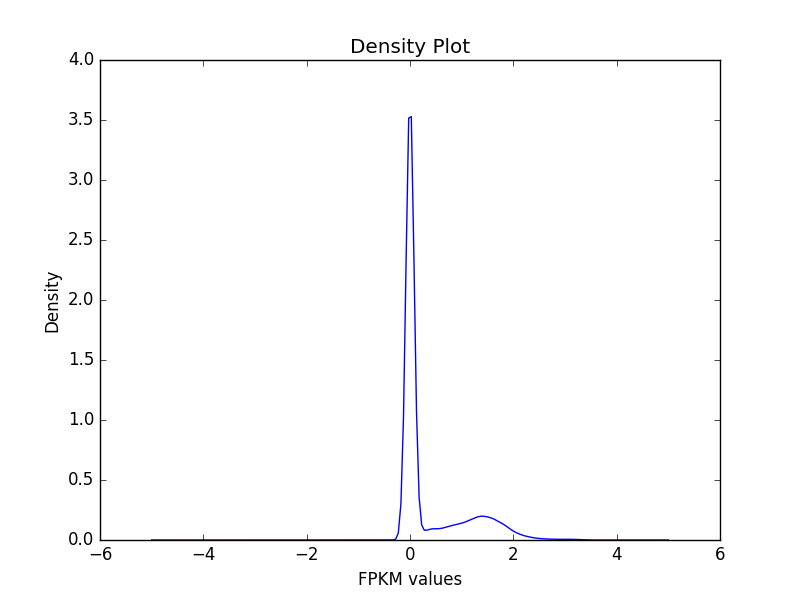
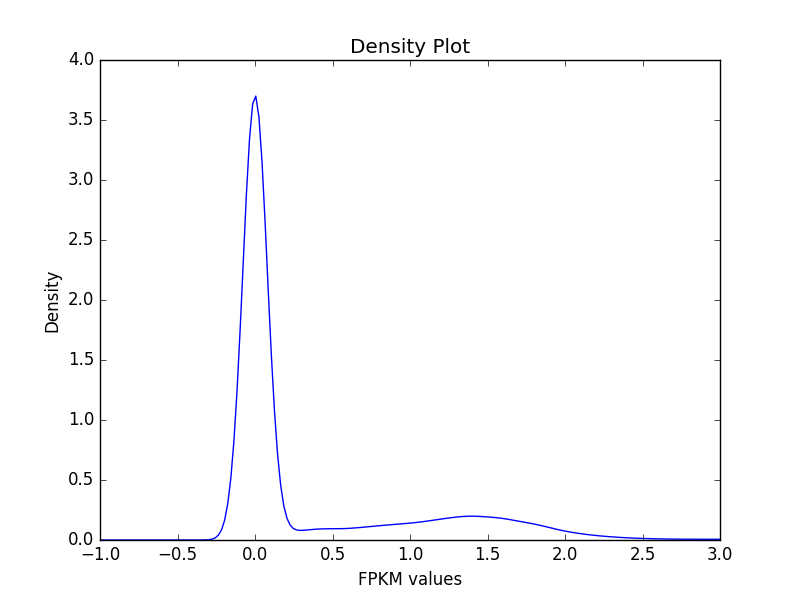
Updates to density code and graph

diff --git a/day4-homework/density.py b/day4-homework/density.py
@@ -25,7 +25,7 @@ density = gaussian_kde(df_log)
 # density.covariance_factor = lambda : .25
 # density._compute_covariance()
 # plt.plot(xs,density(xs))
-xs = np.linspace(-5, 5, 200)
+xs = np.linspace(-1, 3, 200)
 #start, stop, resolution(number of points between those two numbers so it adds points along the x axis)
 
 plt.figure()
